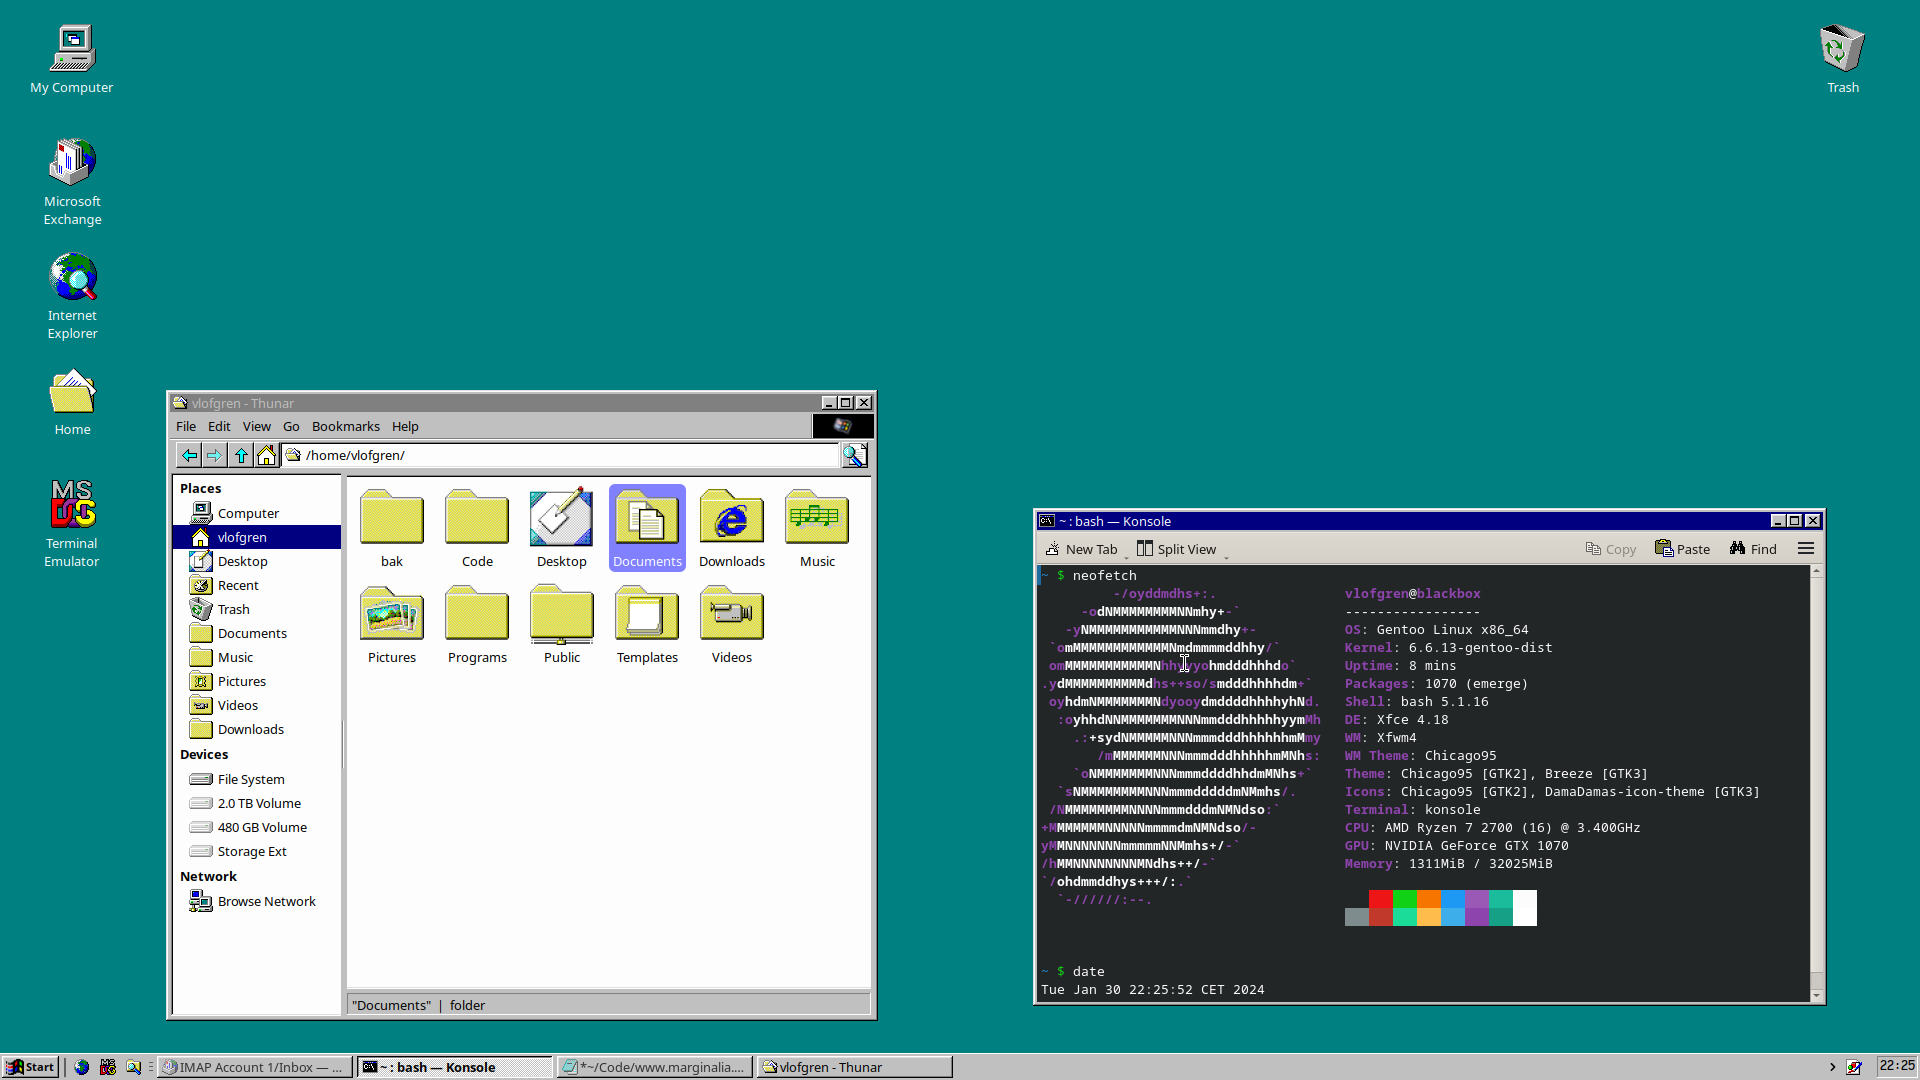
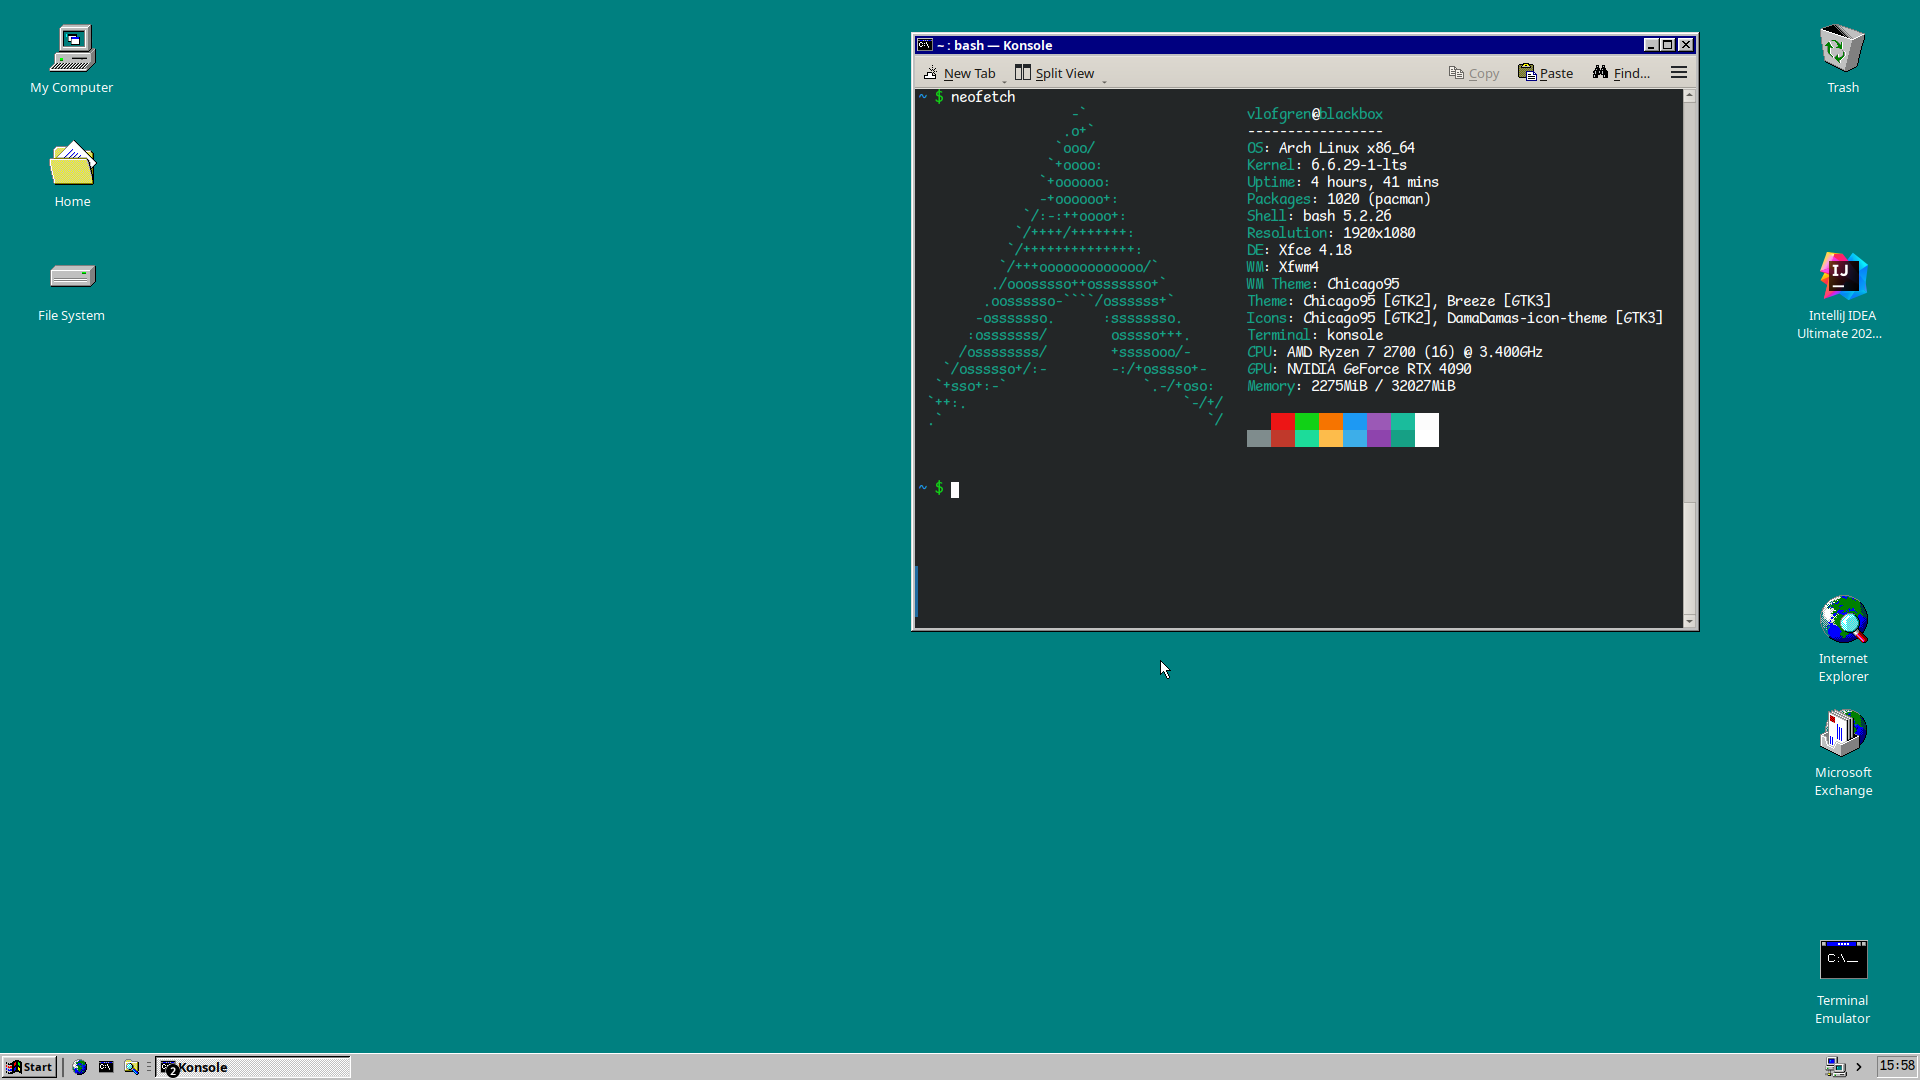
arch btw

diff --git a/content/uses/index.md b/content/uses/index.md
@@ -4,7 +4,7 @@ published: 2024-02-01
 norss: true
 ---
 
-Linux distribution is Gentoo, currently.  Been on Debian forever, but since it's approaching 20 years since last I used Gentoo, I decided to give it a go.  Feels oddly familiar.  So far less yak shaving than I'd anticipated.
+Linux distribution is Arch.  Been bouncing between Debian, Debian-likes (was on Pop! for a long while), Slackware, and recently Gentoo.  What I'd really like is Arch with OpenRC but that sadly isn't a thing as far as I'm aware.
 
 Window manager is XFCE4 with the Chicago95 theme.  KDE-stuff has the reactionary theme.  It's not a perfect fit, but it's close enough that it doesn't grate the senses too much.  More visually consistent than most other desktop environments, even actual (2020s) Windows.
 
@@ -14,8 +14,6 @@ Windows 95 is the peak of interface design.  If you turn away from skeumorphism,
 <a href="screenie.png"><img src="screenie.png"></a>
 <figcaption>Screenshot</figcaption>
 </figure>
-
-Browser is *Falkon*, which as far as browsers go isn't the greatest, but it lets me have sane scrollbars in my browser, which makes up for the fact that half the websites don't render correctly.
 
 Monospace terminal/editor font is *Comic Mono*, the excellent readability of which is real MVP in covering for my dyslexic ass.
 
